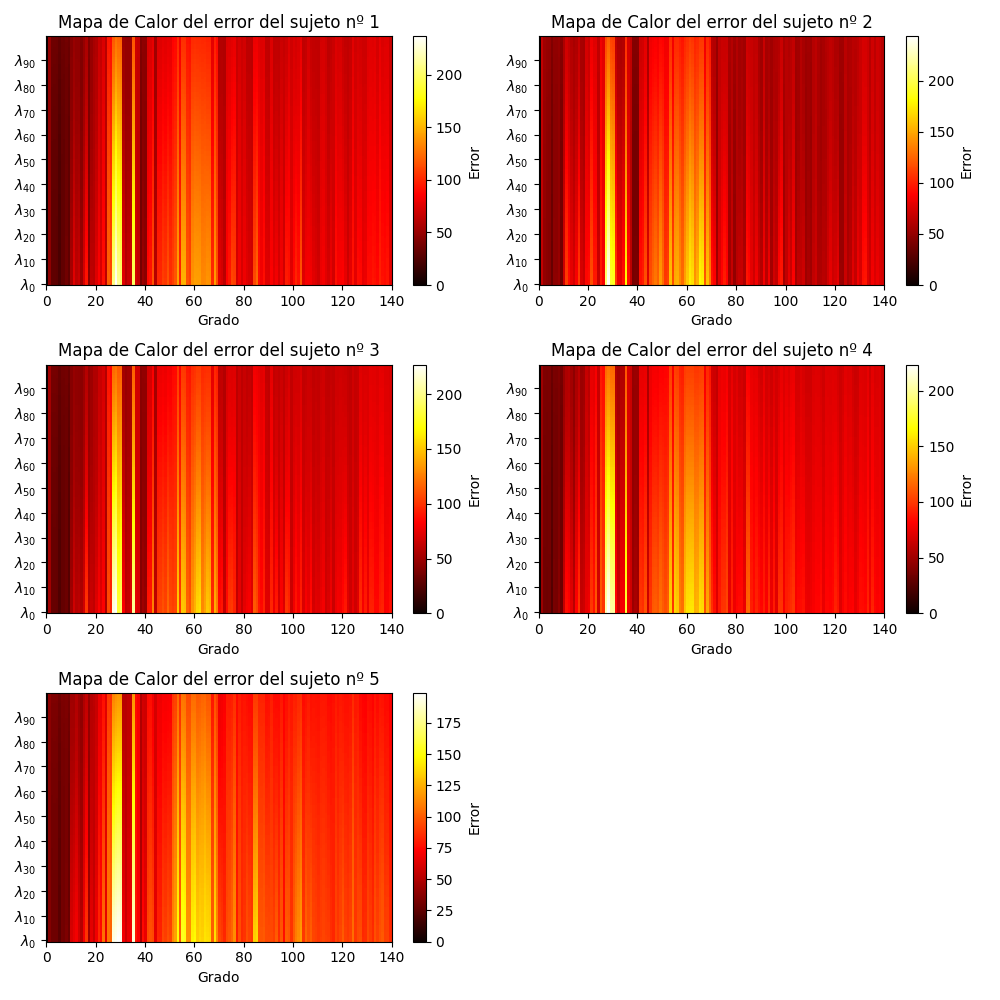
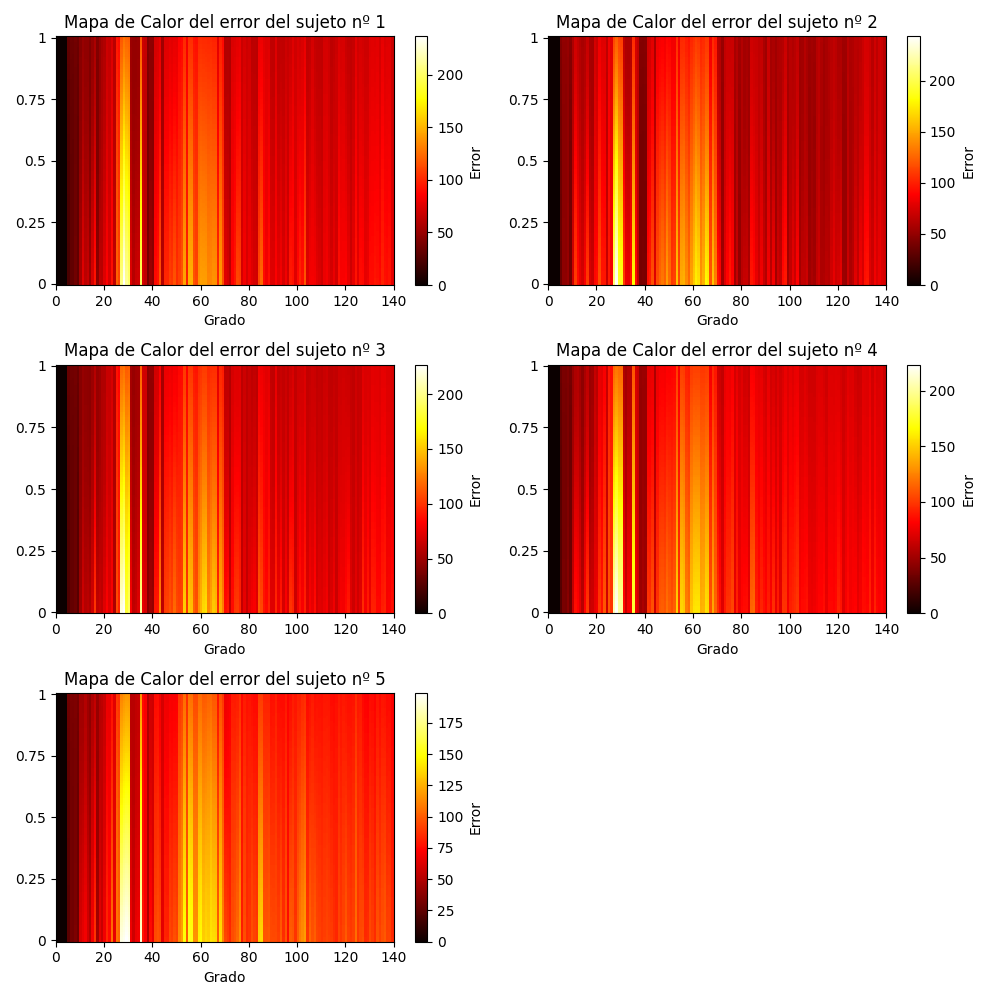
Corrige graficos

Changed region(s): [[0.0, 0.0, 0.992, 0.992], [0.837, 0.372, 0.961, 0.651], [0.961, 0.465, 0.992, 0.496]]

diff --git a/tp3/experimentos.py b/tp3/experimentos.py
@@ -18,13 +18,13 @@ def plot_error_sujeto_1():
     plt.show()
 
 def heatmap_sujetos(error, sujeto, ax, cant_lambdas=100):
-    lambda_range = range(0,cant_lambdas,10)
-
     cax = ax.pcolor(error, cmap='hot', shading='auto') 
     plt.colorbar(cax, ax=ax, label='Error')
 
-    ax.set_yticks(np.arange(0,cant_lambdas,10) + 0.5)
-    ax.set_yticklabels([f'$\lambda_{{{i}}}$' for i in lambda_range], ha='right')
+    y_ticks = [0, 0.25, 0.5, 0.75, 1]
+    y_positions = np.array(y_ticks) * (cant_lambdas - 1) 
+    ax.set_yticks(y_positions + 0.5) 
+    ax.set_yticklabels(y_ticks)
 
     ax.set_title(f'Mapa de Calor del error del sujeto nº {sujeto}')
     ax.set_xlabel('Grado')
@@ -37,7 +37,7 @@ def explorar_en_sujeto(sujeto):
     cant_l = 100
 
     lambdas = np.logspace(1e-8,1, cant_l)
-    grados  = [i for i in range(1, max_g)]
+    grados  = [i for i in range(5, max_g)]
 
     g_opt = -1
     l_opt = -1
@@ -85,5 +85,5 @@ def explorar_hiperparametros():
 
 if __name__ == "__main__":
     print("Experimentando...")
-    plot_error_sujeto_1()
+    # plot_error_sujeto_1()
     explorar_hiperparametros()
